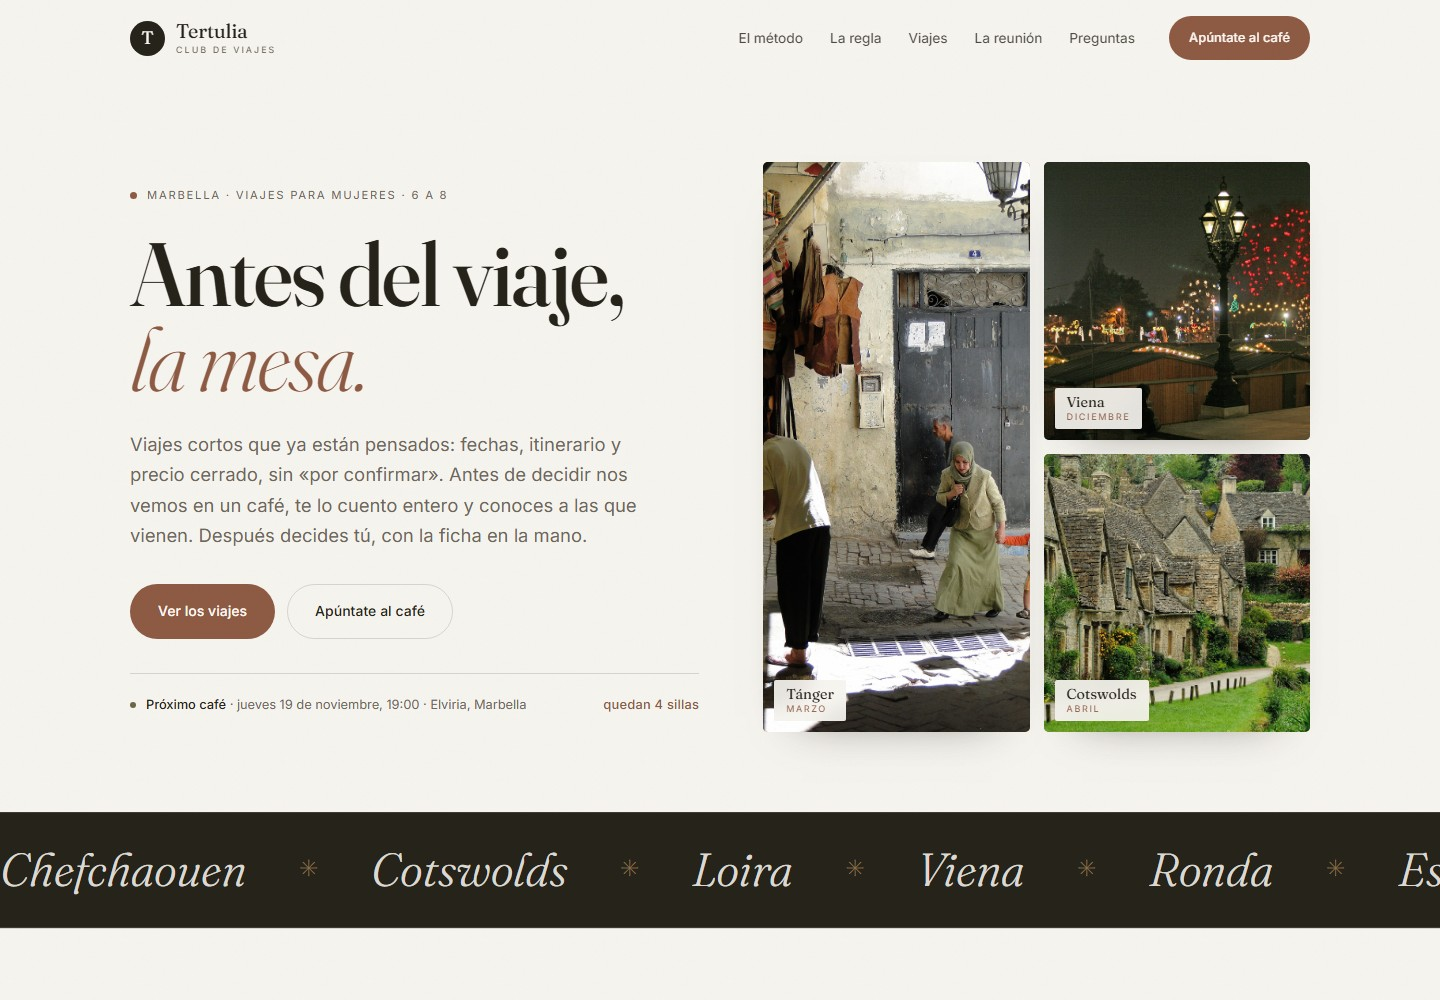
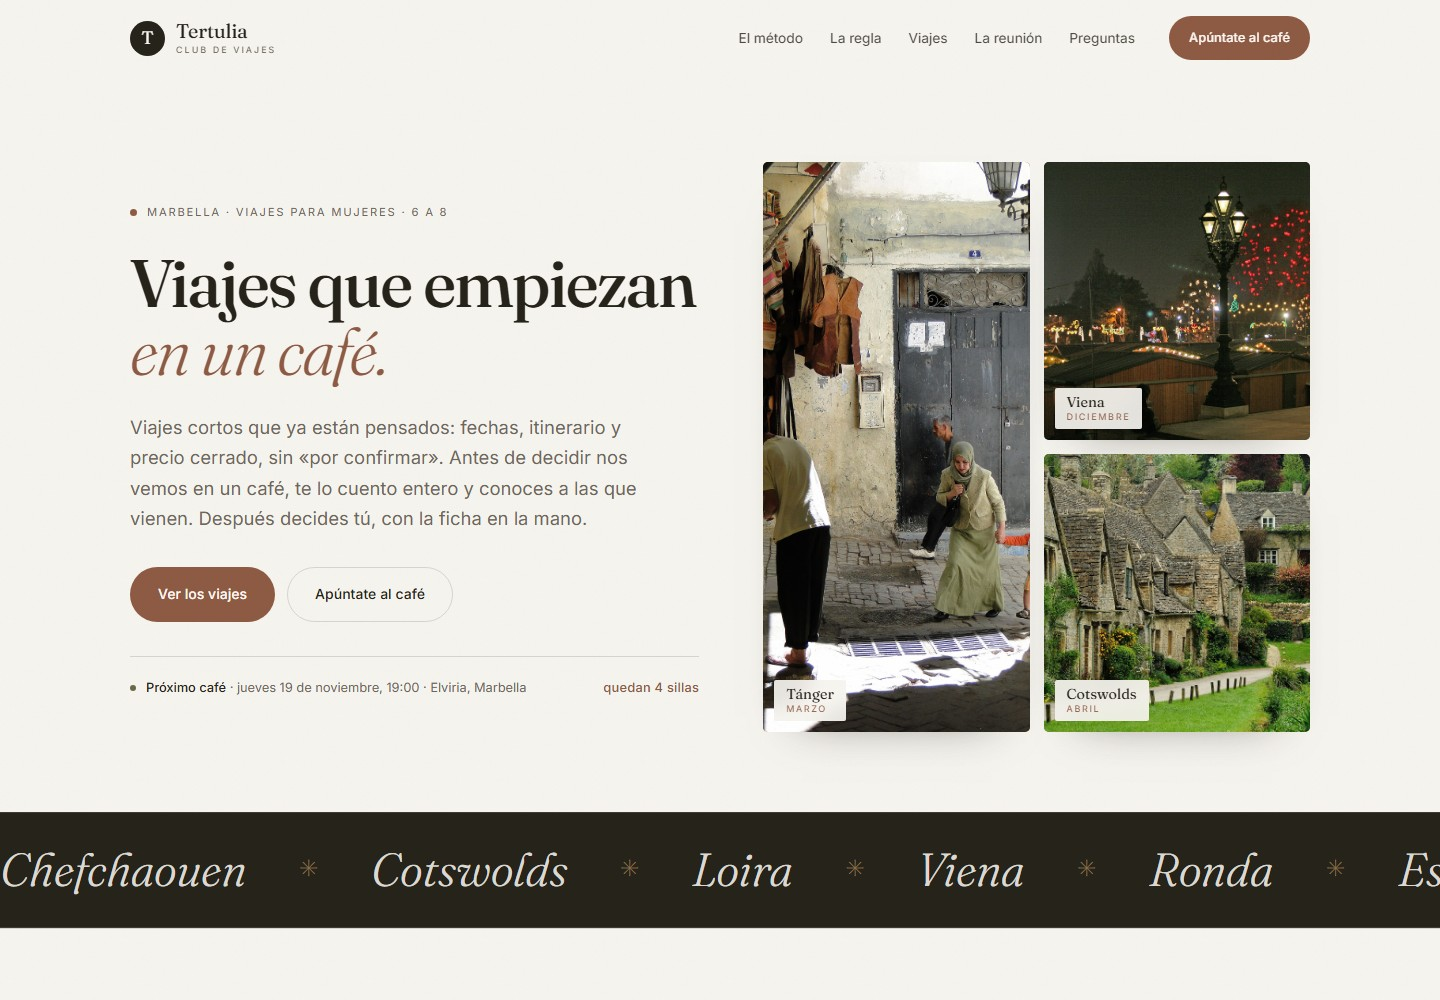
Titular: Viajes que empiezan en un cafe

diff --git a/index.html b/index.html
@@ -3,12 +3,12 @@
 <head>
 <meta charset="utf-8">
 <meta name="viewport" content="width=device-width, initial-scale=1">
-<title>Tertulia — Antes del viaje, la mesa.</title>
+<title>Tertulia — Viajes que empiezan en un café.</title>
 <meta name="description" content="Viajes cortos para mujeres en grupos de 6 a 8, con fecha, itinerario y precio cerrado. Antes de pagar, un café en Marbella para verlo en detalle y conocer al grupo. Marrakech, Cotswolds, Loira, Viena, Ronda.">
 <meta name="theme-color" content="#F6F4EF">
 
 <meta property="og:type" content="website">
-<meta property="og:title" content="Tertulia — Antes del viaje, la mesa.">
+<meta property="og:title" content="Tertulia — Viajes que empiezan en un café.">
 <meta property="og:description" content="Viajes cortos para mujeres en grupos de 6 a 8. Publicados con fecha e itinerario cerrado; un café en Marbella antes de decidir, para verlo en detalle y conocer a las que vienen.">
 <meta property="og:image" content="https://thumb.wikimedia.org/wikipedia/commons/thumb/2/20/Ch%C3%A2teau_de_Chambord_at_dawn.jpg/1920px-Ch%C3%A2teau_de_Chambord_at_dawn.jpg">
 
@@ -54,7 +54,7 @@
     <div class="hero__copy">
       <p class="eyebrow"><span class="pulse"></span>Marbella · viajes para mujeres · 6 a 8</p>
 
-      <h1>Antes del viaje,<br><em>la mesa.</em></h1>
+      <h1>Viajes que empiezan<br><em>en un café.</em></h1>
 
       <p class="lede">Viajes cortos que ya están pensados: fechas, itinerario y precio cerrado, sin «por confirmar». Antes de decidir nos vemos en un café, te lo cuento entero y conoces a las que vienen. Después decides tú, con la ficha en la mano.</p>
 
@@ -601,7 +601,7 @@
   <div class="wrap footer__grid">
     <div class="footer__brand">
       <p class="brand brand--footer"><span class="brand__mark">T</span><span class="brand__text">Tertulia<em>club de viajes</em></span></p>
-      <p class="footer__claim">Antes del viaje,<br>la mesa.</p>
+      <p class="footer__claim">Viajes que empiezan<br>en un café.</p>
     </div>
 
     <nav class="footer__col" aria-label="Viajes">

diff --git a/css/styles.css b/css/styles.css
@@ -69,7 +69,7 @@ body::after{
 
 /* ---------- tipografía base ---------- */
 h1,h2,h3{font-family:var(--font-display);font-weight:500;letter-spacing:-.018em;text-wrap:balance}
-h1{font-size:clamp(2.9rem, 6.4vw, 5.6rem);line-height:.94}
+h1{font-size:clamp(2.6rem, 5.2vw, 4.2rem);line-height:1;letter-spacing:-.024em}
 h2{font-size:clamp(2rem, 4.3vw, 3.5rem);line-height:1.01}
 h3{font-size:clamp(1.2rem, 1.7vw, 1.42rem);line-height:1.2;font-weight:500}
 em{font-style:italic}
